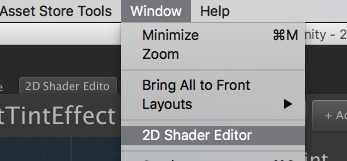
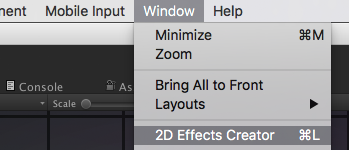
no message

diff --git a/Introduction.md b/Introduction.md
@@ -1,10 +1,10 @@
 ![](images/main.jpg)
 
-**2D Effects Shader Editor** is a node-based shader creation tool for creating 2D shader effect that work with 2D sprite and Unity UI. It is tightly and seamlessly integrated with Unity’s UI. This integrated solution provides a familiar and consistent development environment for your shader creation workflow.
+**2D Effects Creator** is a node-based shader creation tool for creating 2D shader effect that work with 2D sprite and Unity UI. It is tightly and seamlessly integrated with Unity’s UI. This integrated solution provides a familiar and consistent development environment for your shader creation workflow.
 
-Flexible and powerful node-based system let you create AAA quality 2D effect without writing any code. The shaders works without **2D Effects Shader Editor** installed.
+Flexible and powerful node-based system let you create AAA quality 2D effect without writing any code. The shaders works without **2D Effects Creator** installed.
 
-**2D Effects Shader Editor** provides plenty of nodes range from basic operators to special color and distortion effects. This selection of nodes allows you to create shader effect with maximum creativity. The package also comes with plenty of examples to kick-start your learning.
+**2D Effects Creator** provides plenty of nodes range from basic operators to special color and distortion effects. This selection of nodes allows you to create shader effect with maximum creativity. The package also comes with plenty of examples to kick-start your learning.
 
 ![](images/screenshot1.png)
 
@@ -18,10 +18,11 @@ Flexible and powerful node-based system let you create AAA quality 2D effect wit
 - 100+ Basic operator and logic nodes
 - Pure shader animation
 - Support unlit and surface shader
+- Included Camera effects helper script
 - Work with 2D Sprite and Unity UI
 - One-click shader save and update
 - Keyboard Shortcuts
-- Produce independent shader* works without 2D Effects Shader Editor installed
+- Produce independent shader* works without 2D Effects Creator installed
 - Tested on Unity 5.4, 5.5 and 5.6
 
 (*SpriteHelper script needed for shaders to work with multiple sprite atlas. The script is included)

diff --git a/Whats-New.md b/Whats-New.md
@@ -1,3 +1,53 @@
+What’s News in version 1.2.5
+============================
+
+**[New Features]**
+- Change name to **2D Effects Creator** and new "look & feel".
+- Camera Effects Helper: Script to add camera effect with created shader effect.
+- [New Node] FlowMap Node. Create animation effect using a flow map
+- [New Node] FlowMap UV Node. Same as FlowMap Node but output UV which can use with procedural texture.
+- [New Node] Vertex Color. Get the vertex colors.
+- [New Node] Color to UV
+- [New Node] Default UV Color
+- [New Node] 4 Colors Gradient
+- [Node Update] Gradient Node. Add new fill type, Angle.
+- [Node Update] Gradient Node. Add new smoothing option
+- [Node Update] Gradient Node. Add new port ‘ratio’ output a float to indicate the value of gradient.
+- [Node Update] Color Blend Node. Add premultiplied alpha option
+
+
+**[Bug Fix]**
+- Preview in node not clipped when outside canvas
+- Add Enable/Disable tint color in Shader Output Node
+- All Distort Effects node, add separate RGBA output
+- Fix DecodeColor Node output always return r channel
+- When click on canvas with shift key or space key, selected node will deselected.
+
+
+**[New Examples]**
+- Fire (Procedural realistic fire)
+- 2D water flow using flowmap
+- Under Water Camera Effect 
+- Old Video Camera Effect 
+
+
+
+What’s News in version 1.1.3
+============================
+
+
+**[Improvements]**
+- Optimise shader code for normal sprite shader
+- Update examples for optimise shader code
+- Add “Invert” option in ColorMask Node
+
+
+**[Bug Fix]**
+- “Material doesn't have a texture property '_MainTex’” error when using a shader with UI without Texture input node
+- Create new 2D Effect Shader from menu, rename the file, default connection will be broken.
+
+
+
 What’s News in version 1.1.2
 ====
 

diff --git a/Working-with-GrabPass.md b/Working-with-GrabPass.md
@@ -1,8 +1,8 @@
-GrabPass is a special pass type - it grabs the contents of the screen where the object is about to be drawn into a texture. This texture can be used in subsequent passes to do advanced image based effects.
+**GrabPass** is a special pass type - it grabs the contents of the screen where the object is about to be drawn into a texture. This texture can be used in subsequent passes to do advanced image based effects.
 
 ![](images/grabpass_0.png)
 
-**2D Effects Shader Editor** provide a GrabPass node which allow the shader to work with GrabPass. The GrabPass node provide a tex output which acts like normal texture node. You can sampler the tex using a Sampler2D node or use directly with nodes which support tex input.
+**2D Effects Creator** provide a GrabPass node which allow the shader to work with GrabPass. The GrabPass node provide a tex output which acts like normal texture node. You can sampler the tex using a Sampler2D node or use directly with nodes which support tex input.
 
 ![GrabPass](https://github.com/digicrafts/2DEffectsShaderEditorNodes/wiki/images/nodes/utilities/GrabPassNode.png)
 

diff --git a/Basic-Concepts.md b/Basic-Concepts.md
@@ -1,10 +1,10 @@
-**2D Effects Shader Editor** is a node-based shader editor. You can create shader by connecting nodes with wires. It is a visual editor and no coding is needed. There is a core node called _“Sprite Shader”_ in each graph. This node specifies the features supported in the shader represent by this graph.
+**2D Effects Creator** is a node-based shader editor. You can create shader by connecting nodes with wires. It is a visual editor and no coding is needed. There is a core node called _“Sprite Shader”_ in each graph. This node specifies the features supported in the shader represent by this graph.
 
-Sprite Shader Node
+Shader Output Node
 
 ![](images/0_1.png) 
 
-_“Sprite Shader”_ node have an input RGBA, this specify the final output color of the shader. You can connect RGBA output port from other node to specify the output color of the shader.
+_“Shader Output”_ node have an input RGBA, this specify the final output color of the shader. You can connect RGBA output port from other node to specify the output color of the shader.
 
 ![](images/0_2.png)
 

diff --git a/Quick-Start.md b/Quick-Start.md
@@ -2,13 +2,13 @@ Video Tutorial
 
 [![](images/quickstart_video.png)](https://youtu.be/Af-0rHRiKIY "Quick Start")
 
-In this guide, you can learn the basic steps to create shader using **2D Effects Shader Editor** and the steps for using it on your scene object.
+In this guide, you can learn the basic steps to create shader using **2D Effects Creator** and the steps for using it on your scene object.
 
-1.	Create the shader file. From the main menu or right click on the project window, select **Assets>Create>Shader>2D Shader Effect**.
+1.	Create the shader file. From the main menu or right click on the project window, select **Assets>Create>Shader>Digicrafts 2D Shader Effect**.
 
  ![](images/2_1.png) 
 
-2.	Edit the shader name. Open **2D Effects Shader Editor** window from **window>2D Shader Editor**. From the editor, select and edit the shader name.
+2.	Edit the shader name. Open **2D Effects Creator** window from **window>2D Effects Creator**. From the editor, select and edit the shader name.
 
 ![](images/2_2.png) 
 

diff --git a/Mouse-Keyboard-Shortcuts.md b/Mouse-Keyboard-Shortcuts.md
@@ -1,10 +1,10 @@
-**2D Effects Shader Editor** provides keyboard shortcut to enhancing shader creation workflow. You can find the shortcuts below.
+**2D Effects Creator** provides keyboard shortcut to enhancing shader creation workflow. You can find the shortcuts below.
 
 | Shortcuts                | Description                            |
 |--------------------------|----------------------------------------|
 | Left Mouse Button + Drag | Select node or wire with box selection |
 | Right Mouse Button Drag  or “Space” Key + Drag | Pan and navigating the graph |
-| Command/WIN + "L" (&#x2318;+L)| Open 2D shader editor |
+| Command/WIN + "L" (&#x2318;+L)| Open creator window |
 | Command/WIN + Return(&#x2318; + &#x23ce;) | Toggle maximum window |
 | “D” Key	| Open node's inspector |
 | “F" Key	| Focus selected nodes or focus all nodes if no node selected |

diff --git a/Home.md b/Home.md
@@ -1,6 +1,6 @@
 ![](https://github.com/digicrafts/2DEffectsShaderEditor/wiki/images/main.jpg)
 
-2D Effects Shader Editor is a node-based shader creation tool for creating 2D shader effect that work with 2D sprite and Unity UI. It is tightly and seamlessly integrated with Unity’s UI. This integrated solution provides a familiar and consistent development environment for your shader creation workflow.
+**2D Effects Creator** is a node-based shader creation tool for creating 2D shader effect that work with 2D sprite and Unity UI. It is tightly and seamlessly integrated with Unity’s UI. This integrated solution provides a familiar and consistent development environment for your shader creation workflow.
 
 [What's New?](https://github.com/digicrafts/2DFXShaderEditor/wiki/Whats-New)
 

diff --git a/Installation.md b/Installation.md
@@ -1,10 +1,10 @@
-1. Download and import the **2D Effects Shader Editor** from Asset Store.
+1. Download and import the **2D Effects Creator** from Asset Store.
 
-2. The plug-in is located in Digicrafts/2DEffectsShaderEditor.
+2. The plug-in is located in Digicrafts/2DEffectsCreator.
 
 ![](images/1_1.png) 
 
-3. You can find examples in the folder Digicrafts/2DEffectsShaderEditor/Examples.
+3. You can find examples in the folder Digicrafts/2DEffectsCreator/Examples.
 
 ![](images/1_2.png)
 
@@ -12,7 +12,7 @@
 
 ![](images/1_3.png)
 
-5. Open **2D Effects Shader Editor** from menu Window>2D Shader Editor.
+5. Open **2D Effects Creator** from menu Window>2D Shader Editor.
 
 ![](images/1_4.png)
 

diff --git a/Working-with-Multiple-Sprite-Texture-Atlas.md b/Working-with-Multiple-Sprite-Texture-Atlas.md
@@ -2,7 +2,7 @@ Unity provide a [**Multiple Sprite Mode**](https://docs.unity3d.com/Manual/Sprit
 
 ![](images/multiple_sprite_1.png)
 
-**2D Effects Shader Editor** provide a workaround for this situation. It provide an option to calcaulate the correct uv. By enable the option and using the included c# script (SpriteHelper.cs), it will pass the correct uv in multiple sprite mode.
+**2D Effects Creator** provide a workaround for this situation. It provide an option to calcaulate the correct uv. By enable the option and using the included c# script (SpriteHelper.cs), it will pass the correct uv in multiple sprite mode.
 
 ![](images/multiple_sprite_2.png)
 

diff --git a/Using-Comments-Node.md b/Using-Comments-Node.md
@@ -1,4 +1,4 @@
-When a shader being complex, the number of nodes may increase and make the graph not easy to read. **2D Effects Shader Editor** provide a simple and useful node to manage the nodes - _comments node_. You can group several nodes in the comments node and add comments on it.
+When a shader being complex, the number of nodes may increase and make the graph not easy to read. **2D Effects Creator** provide a simple and useful node to manage the nodes - _comments node_. You can group several nodes in the comments node and add comments on it.
 
 ![](images/commentsnode_1.png)
 

diff --git a/User-Interface.md b/User-Interface.md
@@ -1,6 +1,6 @@
-You can open the **2D Shader Editor** from menu _"window>2DFX Shader Editor"_. The ******2D Shader Editor****** only work when you select a 2D effect shader.
+You can open the **2D Effects Creator** from menu _"window>2D Effects Creator"_. The ******2D Effects Creator****** only work when you select a 2D effect shader.
 
-**Shader Editor**
+**Creator Window**
 
 ![](images/interface1.png)
 

diff --git a/Creating-Radial-Bar-UI.md b/Creating-Radial-Bar-UI.md
@@ -1,4 +1,4 @@
-In this video tutorial, you will learn how to create a radial bar UI by using 2D Effects Shader Editor.
+In this video tutorial, you will learn how to create a radial bar UI by using 2D Effects Creator.
 
 
 [![Creating Radial Bar UI](https://img.youtube.com/vi/OWhzaoEkG_E/0.jpg)](https://www.youtube.com/watch?v=OWhzaoEkG_E)
